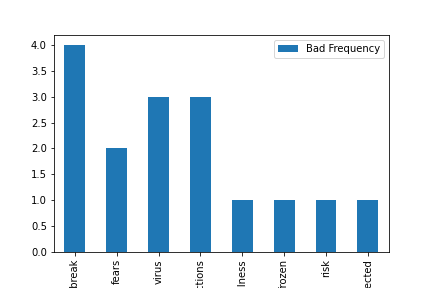
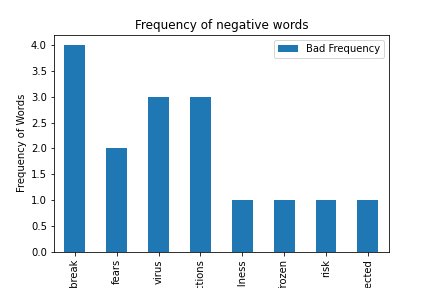
Addition
added histogram for total and stop words

Changed region(s): [[0.3009, 0.0625, 0.7222, 0.125], [0.0301, 0.3125, 0.0602, 0.6875]]

diff --git a/Word_Pos_Neg.py b/Word_Pos_Neg.py
@@ -160,30 +160,45 @@ article.mani()
 print(article.pos_neg_score())
 print(len(article.wordfreq) + len(article.stopfreq))
 
+
+
+#put total words into a dataframe and display 
+
 tw = []
 hz = []
 for key, value in article.wordfreq.items():
     tw.append(key)
     hz.append(value)
-Word_dict = {'Total Word':pd.Series(tw), 'Frequency':pd.Series(hz)}
+Word_dict = {'Total Word':pd.Series(tw), 'Total Frequency':pd.Series(hz)}
 df3 = pd.DataFrame(Word_dict)
 
-df3 = df3.sort_values('Frequency',ascending=False)
+df3 = df3.sort_values('Total Frequency',ascending=False)
 print(df3.head(n=10),"\n")
 df3.iloc[0:11].plot.bar(x='Total Word')
 
+#put stop words into a dataframe and display 
 
 tw1 = []
 hz1 = []
 for key, value in article.stopfreq.items():
     tw1.append(key)
     hz1.append(value)
-Stop_dict = {'Stop Word':pd.Series(tw1), 'Frequency':pd.Series(hz1)}
+Stop_dict = {'Stop Word':pd.Series(tw1), 'Stop Frequency':pd.Series(hz1)}
 df4 = pd.DataFrame(Stop_dict)
 
-df4 = df4.sort_values('Frequency',ascending=False)
+df4 = df4.sort_values('Stop Frequency',ascending=False)
 print(df4.head(n=10),"\n")
 df4.iloc[0:11].plot.bar(x='Stop Word')
+
+ax = df3.plot.hist()
+ax = df4.plot.hist(ax=ax)
+ax.set_title('Meta Frequency of Total & Stop Words Histogram')
+ax.set_xlabel('Word frequency')
+ax.set_ylabel('Frequency of Frequency')
+fig = ax.get_figure()
+fig.savefig('Total&StopHist.png')
+
+
 
 #initialise lists
 wrd = []
@@ -198,6 +213,9 @@ Good_dict = {'Word':pd.Series(wrd), 'Good Frequency':pd.Series(freq)}
 df = pd.DataFrame(Good_dict)
 #print(df,"\n")
 ax = df.plot.bar(x = 'Word')
+ax.set_title('Frequency of Positive Words')
+ax.set_xlabel('Positive Words')
+ax.set_ylabel('Frequency')
 fig = ax.get_figure()
 fig.savefig('PosBar.png')
 
@@ -215,6 +233,9 @@ Bad_dict = {'Word':pd.Series(wrd1), 'Bad Frequency':pd.Series(freq1)}
 df2 = pd.DataFrame(Bad_dict)
 #print(df2)
 ax = df2.plot.bar(x = 'Word')
+ax.set_title('Frequency of negative words')
+ax.set_xlabel('Negative Words')
+ax.set_ylabel('Frequency of Words')
 fig = ax.get_figure()
 fig.savefig('NegBar.png')
 
@@ -222,6 +243,9 @@ fig.savefig('NegBar.png')
 #Generate Histogram for Positive & Negative words
 ax = df.plot.hist()
 ax = df2.plot.hist(ax=ax)
+ax.set_title('Meta Frequency of Positive and Negative Words Histogram')
+ax.set_xlabel('Word frequency')
+ax.set_ylabel('Frequency of Frequency')
 fig = ax.get_figure()
 fig.savefig('PosNegHist.png')
 
